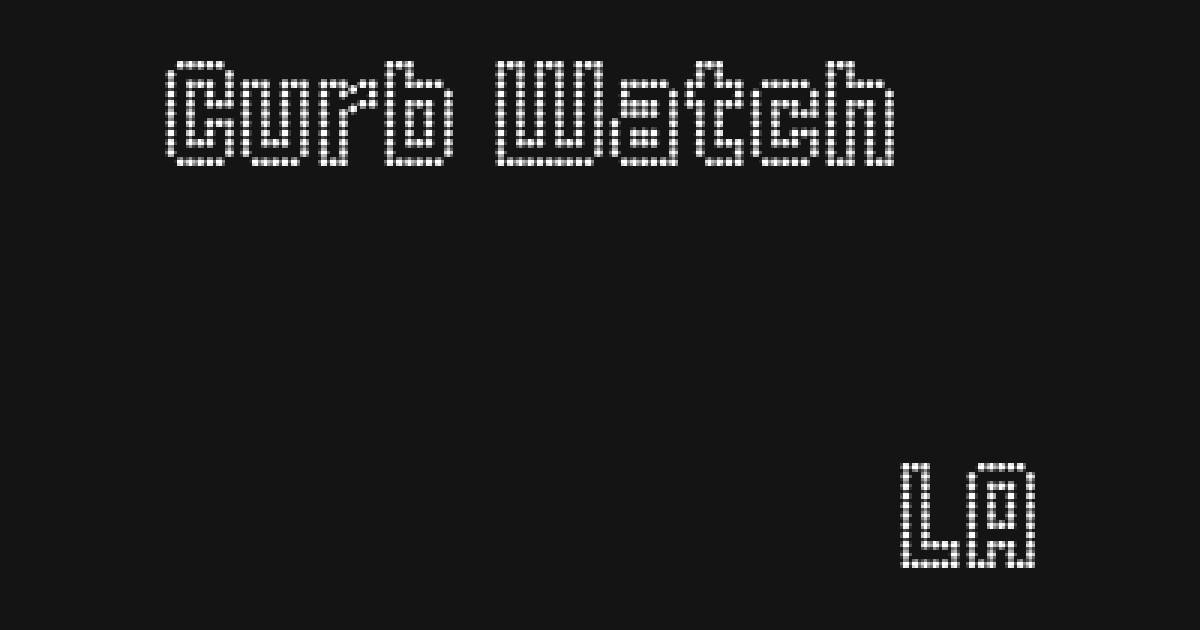
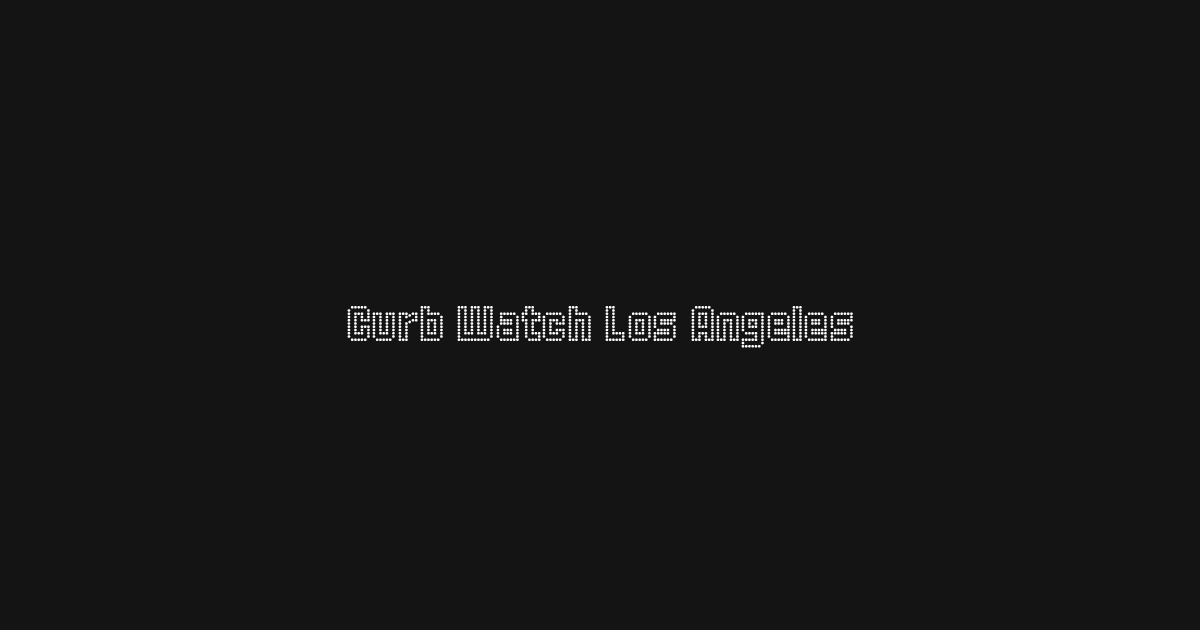
Use the 1200x630 Curb Watch Los Angeles card as-is

Changed region(s): [[0.1233, 0.0905, 0.7708, 0.2714], [0.2775, 0.4825, 0.7092, 0.5429], [0.74, 0.7238, 0.8633, 0.9048]]

diff --git a/index.html b/index.html
@@ -20,13 +20,13 @@
 <meta property="og:image:width" content="1200">
 <meta property="og:image:height" content="630">
 <meta property="og:image:type" content="image/png">
-<meta property="og:image:alt" content="CurbWatch LA, in pixel lettering on a dark ground">
+<meta property="og:image:alt" content="Curb Watch Los Angeles, in pixel lettering on a dark ground">
 <meta property="og:locale" content="en_US">
 <meta name="twitter:card" content="summary_large_image">
 <meta name="twitter:title" content="CurbWatch LA">
 <meta name="twitter:description" content="Check any block from Echo Park to West Hollywood before you park: street-sweeping days, permit streets, Dodger game-day zones, meters and where tickets actually get written.">
 <meta name="twitter:image" content="https://curbwatch.example/og-image.png">
-<meta name="twitter:image:alt" content="CurbWatch LA, in pixel lettering on a dark ground">
+<meta name="twitter:image:alt" content="Curb Watch Los Angeles, in pixel lettering on a dark ground">
 
 <link rel="icon" href="FAVICON2.png" sizes="512x512" type="image/png">
 <link rel="apple-touch-icon" href="FAVICON2.png">

diff --git a/tools/make_images.py b/tools/make_images.py
@@ -1,4 +1,4 @@
-"""Build og-image.png (1200x630 social card) from Greg's artwork, CURBWATCHLA.png.
+"""Build og-image.png (1200x630 social card) from Greg's artwork, CURBWATCHLA2.png.
 
 The lettering is pixel art, so it is scaled by whole numbers with nearest-neighbour
 sampling — never resampled — and centred on a canvas painted in the artwork's own
@@ -10,7 +10,7 @@ from PIL import Image
 ROOT = Path(__file__).resolve().parent.parent
 W, H, MARGIN = 1200, 630, 56
 
-src = Image.open(ROOT / 'CURBWATCHLA.png').convert('RGBA')
+src = Image.open(ROOT / 'CURBWATCHLA2.png').convert('RGBA')
 bg = src.getpixel((4, 4))[:3]
 
 flat = Image.new('RGB', src.size, bg)

diff --git a/CLAUDE.md b/CLAUDE.md
@@ -8,7 +8,7 @@ Not deployed yet. Planned as a website (GitHub Pages like Greg's other sites), m
 app later — `site.webmanifest` already makes it installable. Greg is designing the
 visual identity. `FAVICON2.png` (512×512) is his and is the only icon — favicon,
 apple-touch-icon and manifest all point at it. `og-image.png` is built from his artwork
-`CURBWATCHLA.png` by `tools/make_images.py` — trimmed, scaled by a whole number with
+`CURBWATCHLA2.png` by `tools/make_images.py` — trimmed, scaled by a whole number with
 nearest-neighbour (it's pixel art, never resample it) and centred on a 1200x630 canvas.
 
 ## Layout
